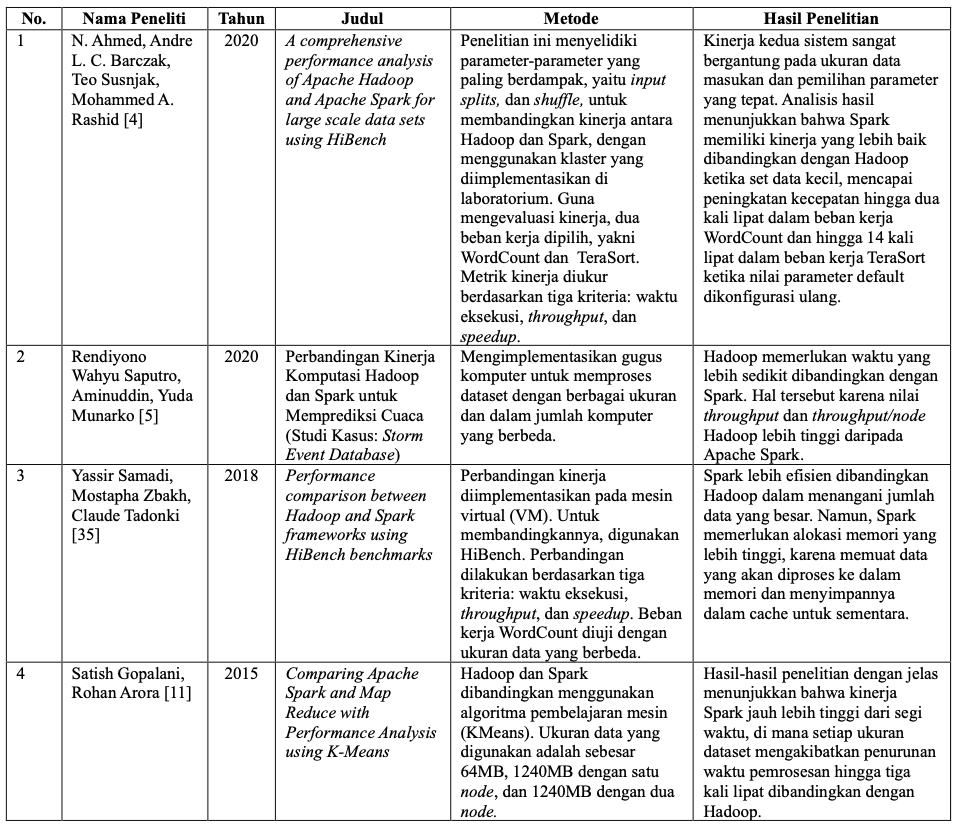
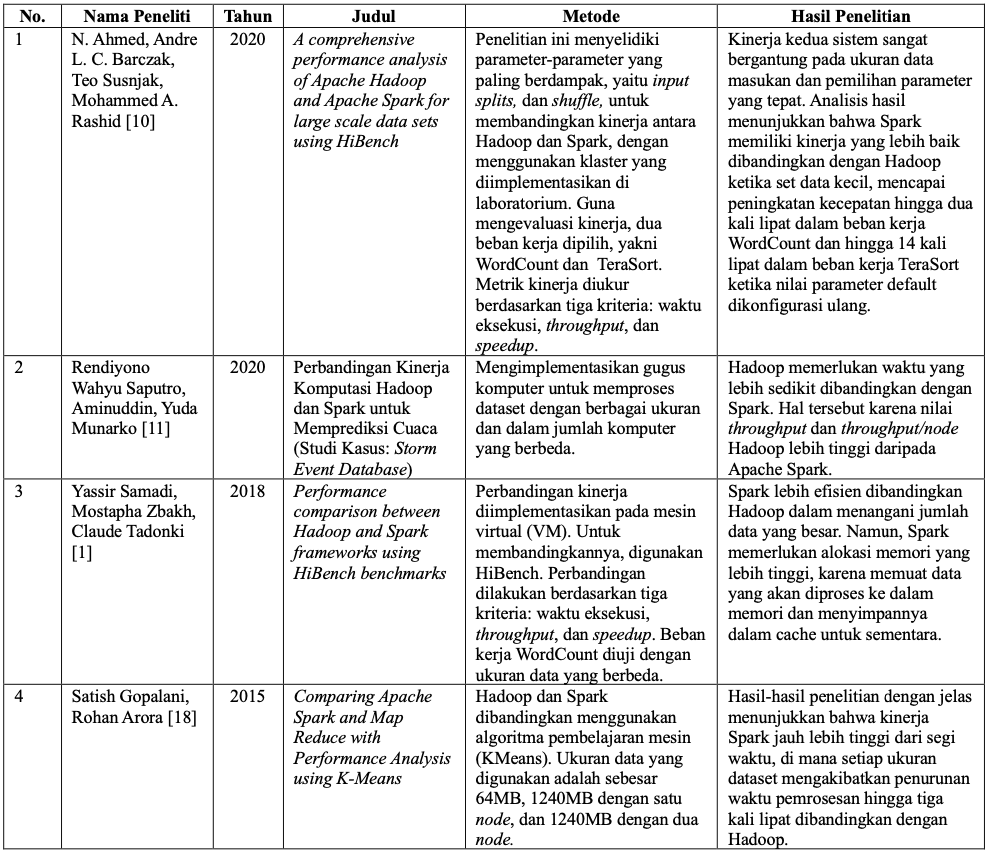
fix(bab1): change intro for sempro

Changed region(s): [[0.0, 0.0, 1.0, 1.0]]

diff --git a/chapters/ch01/index.tex b/chapters/ch01/index.tex
@@ -4,21 +4,29 @@
 
 \section{Latar Belakang}
 
-Pengolahan dan analisis data telah menjadi bagian penting dalam berbagai aspek kehidupan modern \cite{vermaBigDataManagement2016}.  Organisasi, perusahaan, dan lembaga pemerintah mengandalkan data untuk pengambilan keputusan, inovasi produk, pengembangan layanan pelanggan, dan banyak aspek lainnya. Seiring dengan meningkatnya volume data yang dihasilkan setiap hari, tantangan utama yang dihadapi adalah bagaimana mengelola dan menganalisis data ini dengan efisien dan cepat \cite{ahmadvandGapproxUsingGallup2019}. Beberapa solusi telah tersedia untuk mengatasi masalah ini. Salah satu solusi yang paling efisien adalah komputasi terdistribusi. 
+% TODO: (P1) Bahas mengenai Kemampuan mengolah dan menganalisis data dalam skala besar. Jabar-jabarkan aja.
+% TAMBAHKAN DATAAA, tambahkan referensi
+Perusahaan dan organisasi menghasilkan dan menyimpan data dalam skala besar setiap hari dengan tingkat pertumbuhannya yang dinamis \cite{samadiPerformanceComparisonHadoop2018}. Pertumbuhan jumlah data diperkirakan akan meningkat hingga 5x lipat pada tahun 2025 dengan \textit{Global Datasphere} diproyeksikan tumbuh dari 33 \textit{Zettabytes} (ZB) pada tahun 2018 menjadi 175 ZB \cite{reinselDigitizationWorldEdge2018} pada tahun 2025. Jumlah data tersebut membutuhkan pengolahan dengan kecepatan tinggi sehingga dapat dimanfaatkan untuk keperluan bisnis dan pengambilan keputusan \cite{adrianExpertReviewBig2018}. Analisis data transaksi nasabah pada perbankan dapat digunakan untuk mendeteksi \textit{fraud} dan meningkatkan keamanan \cite{syahputraPendeteksianFraudPeran2020}. Data pasien pada bidang kesehatan dapat memantau wabah penyakit dan menemukan pola pengobatan yang optimal \cite{sulaimanLITERATUREREVIEWPENERAPAN2023}. Sementara itu, data interaksi pengguna pada \textit{e-commerce} diolah untuk memberikan rekomendasi produk personal dan merancang strategi peningkatan penjualan \cite{fernandoUtilizationBigData2020}. Semakin besar data yang bisa ditangani, semakin banyak peluang analisis dan \textit{value} yang bisa dihasilkan. Namun, semakin besar volume data yang harus diolah, semakin kompleks pula tantangan yang dihadapi dalam mengelolanya secara efisien dan efektif \cite{KOMPARASIKECEPATANHADOOP}.
+
+% TODO: (P2) Volume data terus meningkat menjadi tantangan utama. Kasih data. Ksih penyebabnya. Kasih dampaknya.
+
+Tantangan utama dalam mengelola volume data yang besar adalah memastikan ketersediaan sumber daya komputasi yang memadai \cite{KOMPARASIKECEPATANHADOOP}. Pendekatan konvensional pemrosesan data besar seperti memperbanyak jumlah \textit{storage} secara vertikal, dan penggunaan sistem basis data NoSQL dapat memungkinkan pengolahan data yang skalabel dan fleksibel. Namun, ketika skala dan kompleksitas data semakin meningkat, komputasi terdistribusi menjadi pilihan yang lebih tepat karena memiliki sifat \textit{fault-tolerant}\cite{saadoonFaultToleranceBig2022}. 
 
 % TODO: Pentingnya evaluasi apa? Belum disebutkan!
 
-Komputasi terdistribusi adalah cara untuk mencapai paralelisme dengan menggabungkan beberapa mesin independen yang berbeda \cite{bhattacharyaEvaluatingDistributedComputing2021}. Dalam komputasi terdistribusi, data besar dibagi ke dalam sejumlah \textit{node} atau server yang bekerja bersama-sama untuk mengolahnya \cite{ahmedComprehensivePerformanceAnalysis2020}. Dua teknologi yang umum digunakan dalam komputasi terdistribusi ini adalah Apache Hadoop dan Apache Spark \cite{saputroPerbandinganKinerjaKomputasi2020}. Hadoop dan Spark adalah dua platform komputasi \textit{big data} yang paling populer dan banyak digunakan di seluruh dunia. \textit{Platform} ini menawarkan berbagai kemampuan untuk mengelola, menyimpan, dan menganalisis data dalam skala besar. 
+Komputasi terdistribusi adalah cara untuk mencapai paralelisme dengan menggabungkan beberapa mesin independen yang berbeda \cite{bhattacharyaEvaluatingDistributedComputing2021}. Dalam komputasi terdistribusi, data besar dibagi ke dalam sejumlah \textit{node} atau server yang bekerja bersama-sama untuk mengolahnya \cite{ahmedComprehensivePerformanceAnalysis2020}. Dua teknologi yang umum digunakan dalam komputasi terdistribusi ini adalah Apache Hadoop dan Apache Spark \cite{saputroPerbandinganKinerjaKomputasi2020}. Hadoop dan Spark adalah dua platform komputasi \textit{big data} yang paling populer dan banyak digunakan di seluruh dunia. Teknologi ini menawarkan berbagai kemampuan untuk mengelola, menyimpan, dan menganalisis data dalam skala besar. 
 
+% TODO: Lebih baik 1-1 antara mapreduce dan spark saja. Bridging ke pentingnya evaluasi.
 MapReduce adalah alat yang digunakan untuk komputasi terdistribusi, dirancang khusus untuk menulis, membaca, dan memproses jumlah data yang besar \cite{deanMapReduceSimplifiedData2004}. Pemrosesan data dalam MapReduce ini terdiri dari tiga tahap: fase \textit{Map}, fase \textit{Shuffle}, dan fase \textit{Reduce}. Dalam teknik ini, berkas-berkas besar dibagi menjadi beberapa blok kecil dengan ukuran yang sama dan didistribusikan ke seluruh klaster untuk penyimpanan. MapReduce dan sistem file terdistribusi (HDFS) adalah bagian inti dari sistem Hadoop, sehingga komputasi dan penyimpanan bekerja bersama-sama di seluruh \textit{node} yang membentuk klaster komputer \cite{samadiComparativeStudyHadoop2016}. Hadoop MapReduce memerlukan akses ke penyimpanan untuk membaca dan menulis data, sehingga dapat memperlambat proses komputasi, sehingga hadirlah Spark.
 
 Spark, di sisi lain, menawarkan teknologi \textit{Resilient Distributed Datasets} (RDDs) untuk mendukung proses \textit{Map} dan \textit{Reducing} secara lebih efektif dan cepat \cite{ahmadvandGapproxUsingGallup2019}. Spark bukan hanya alternatif Hadoop, tetapi juga menyediakan berbagai fungsi, misalnya mendukung \textit{MLib}, \textit{GraphX}, dan \textit{Spark streaming} untuk analisis data besar \cite{zahariaSparkClusterComputing2010}. Spark menggunakan memori untuk menyimpan data sehingga dapat mengurangi siklus baca dan tulis. Perbedaan mendasar ini mengakibatkan menarik untuk melihat perbandingan performa antara keduanya. Salah satu cara untuk membandingkan performa keduanya adalah menggunakan tolok ukur Hibench.
 
+% TODO: perbaiki, terlalu umum. Umum -> umum tidak bagus.
 Tolok ukur HiBench adalah salah satu tolok ukur kinerja yang paling sering digunakan. HiBench mencakup sejumlah tugas \textit{benchmarking} yang mencerminkan berbagai jenis pemrosesan data, seperti pengolahan batch, aliran data, \textit{query}, atau pun \textit{machine learning} \cite{huangHiBenchBenchmarkSuitea}. Oleh karena itu, HiBench adalah alat yang cocok untuk mengukur dan membandingkan kinerja antara Hadoop dan Spark dalam berbagai skenario penggunaan.
 
 Penelitian tentang evaluasi performa Hadoop dan Spark menggunakan HiBench telah beberapa kali dilakukan. Shi et al. \cite{shiClashTitansMapReduce2015} melakukan penelitian dengan dua alat yang dirancang untuk mengukur kinerja MapReduce dan Spark dalam berbagai skenario beban kerja. Penelitian tersebut mengevaluasi kinerja dalam pekerjaan \textit{batch} dan iteratif, dengan fokus pada komponen-komponen penting seperti \textit{shuffle}, dan \textit{caching}. Hasil penelitian menunjukkan bahwa Spark lebih cepat daripada Hadoop dalam beberapa kasus, terutama ketika menangani tugas-tugas pemrosesan data yang lebih kecil. Namun, ketika ukuran data meningkat, Hadoop terbukti lebih efisien. Selanjutnya, perbandingan kinerja antara Hadoop dan Spark juga disorot oleh penelitian Samadi et al. \cite{samadiComparativeStudyHadoop2016}, yang menggunakan delapan tolok ukur dari HiBench. Penelitian ini menunjukkan bahwa Spark cenderung lebih efisien ketika menangani data dalam jumlah kecil atau saat memproses tugas dalam memori, sementara Hadoop lebih sukses ketika beban kerja melibatkan operasi I/O penyimpanan yang intensif. Selain itu, penelitian oleh Satish dan Rohan \cite{gopalaniComparingApacheSpark2015} menyoroti perbandingan kinerja antara Hadoop dan Spark khususnya dalam konteks algoritma \textit{K-means}. Penelitian itu menemukan bahwa Spark dapat mencapai kecepatan hingga tiga kali lipat dibandingkan Hadoop, dengan catatan bahwa performa Spark sangat bergantung pada ukuran memori yang memadai.
 
-Berdasarkan penelitian sebelumnya, penelitian ini bertujuan untuk menyelidiki perbandingan kinerja antara Hadoop dan Spark dengan menggunakan tolok ukur HiBench dengan studi kasus tertentu. Dengan pemahaman mendalam mengenai kekuatan dan kelemahan masing-masing \textit{platform} dalam berbagai konteks pemrosesan data, organisasi atau peneliti dapat membuat keputusan yang lebih informasional saat memilih \textit{platform} yang paling sesuai dengan kebutuhan. Selain itu, penelitian ini akan dilakukan dengan memanfaatkan Infrastruktur sebagai Layanan (IaaS) yang disediakan oleh \textit{DigitalOcean}, memungkinkan penggunaan sumber daya komputasi dalam skala yang fleksibel dan efisien. Dengan demikian, penelitian ini akan memberikan kontribusi berharga dalam membantu pemangku kepentingan dalam mengoptimalkan pemrosesan data dalam lingkungan komputasi terdistribusi.
+Berdasarkan penelitian sebelumnya, penelitian ini bertujuan untuk menyelidiki perbandingan kinerja antara Hadoop dan Spark dengan menggunakan tolok ukur HiBench dengan studi kasus tertentu. Pemahaman mendalam mengenai kekuatan dan kelemahan masing-masing teknologi dalam berbagai konteks pemrosesan data akan membuat organisasi atau peneliti dapat dengan mudah membuat keputusan yang lebih informasional. Selain itu, penelitian ini akan dilakukan dengan memanfaatkan Infrastruktur sebagai Layanan (IaaS) yang disediakan oleh DigitalOcean, memungkinkan penggunaan sumber daya komputasi dalam skala yang fleksibel dan efisien. Dengan demikian, penelitian ini akan memberikan kontribusi berharga dalam membantu pemangku kepentingan dalam pemilihan teknologi pemrosesan data dalam lingkungan komputasi terdistribusi.
 
 \section{Rumusan Masalah}
 Adapun rumusan masalah dalam penelitian ini adalah sebagai berikut:

diff --git a/chapters/ch03/index.tex b/chapters/ch03/index.tex
@@ -102,7 +102,7 @@ Pemasangan dan konfigurasi perangkat lunak pada tahapan ini tidak membutuhkan ur
 
 \subsubsection{Instalasi dan Konfigurasi Hadoop}
 Hadoop adalah perangkat lunak \textit{open source} yang efektif dalam menyimpan dan memproses data dalam skala besar. Daripada menggunakan satu komputer besar untuk menyimpan dan memproses data, Hadoop memungkinkan pengklasteran beberapa komputer untuk menganalisis set data besar secara paralel dengan lebih cepat. Ada beberapa perangkat lunak prasyarat yang perlu dipasang sebelum menggunakan Hadoop. Setelah perangkat lunak prasyarat berhasil dipasang, Hadoop juga dapat dipasang mengikuti panduan lengkap pada Lampiran \ref{appendix:C}. 
-Secara umum, alur yang harus dilakukan meliputi pengunduhan berkas Hadoop. Selanjutnya akan dilakukan pengubahan kepemilikan berkas ke \textit{user hdfsuser}. Karena Hadoop tidak mendukung IPv6, maka fitur ini perlu dimatikan juga. Alir pemasangan dan konfigurasi Hadoop lebih jelas sesuai dengan Gambar \ref{fig:hadoop-flow}.
+Secara umum, alur yang harus dilakukan meliputi pengunduhan berkas Hadoop. Selanjutnya akan dilakukan pengubahan kepemilikan berkas ke \textit{user hdfsuser}. Karena Hadoop tidak mendukung IPv6, maka fitur ini perlu dimatikan juga. Alur pemasangan dan konfigurasi Hadoop lebih jelas sesuai dengan Gambar \ref{fig:hadoop-flow}.
 
 \begin{figure}[h!]
     \centering
@@ -112,7 +112,7 @@ Secara umum, alur yang harus dilakukan meliputi pengunduhan berkas Hadoop. Selan
 \end{figure}
 
 \subsubsection{Instalasi dan Konfigurasi Spark}
-Apache Spark adalah sebuah kerangka kerja pengolahan data terdistribusi yang sangat cepat dan efisien. Spark dan Hadoop memiliki hubungan yang erat. Spark dapat berjalan di atas \textit{Hadoop Distributed File System} (HDFS) dan dapat menggunakan Hadoop YARN sebagai manajer sumber daya. Oleh karena itu, instalasi Spark membutuhkan Hadoop sudah terpasang lebih dahulu. Alir pemasangan dan konfigurasi spark terlihat seperti pada Gambar \ref{fig:spark-flow}. Apabila Hadoop sudah berhasil terpasang, langkah selanjutnya adalah memasang Spark seperti pada Lampiran \ref{appendix:D}.
+Apache Spark adalah sebuah kerangka kerja pengolahan data terdistribusi yang sangat cepat dan efisien. Spark dan Hadoop memiliki hubungan yang erat. Spark dapat berjalan di atas \textit{Hadoop Distributed File System} (HDFS) dan dapat menggunakan Hadoop YARN sebagai manajer sumber daya. Oleh karena itu, instalasi Spark membutuhkan Hadoop sudah terpasang lebih dahulu. Alur pemasangan dan konfigurasi spark terlihat seperti pada Gambar \ref{fig:spark-flow}. Apabila Hadoop sudah berhasil terpasang, langkah selanjutnya adalah memasang Spark seperti pada Lampiran \ref{appendix:D}.
 
 \begin{figure}[h]
     \centering
@@ -122,7 +122,7 @@ Apache Spark adalah sebuah kerangka kerja pengolahan data terdistribusi yang san
 \end{figure}
 
 \subsubsection{Instalasi dan Konfigurasi HiBench}
-Sebelum melakukan eksperimen, diperlukan suatu perangkat lunak pengukuran kinerja sistem \textit{Big Data}, yaitu HiBench. HiBench tidak dapat digunakan secara langsung ketika sudah berhasil diunduh, melainkan harus dilakukan pembangunan beberapa modul yang dibutuhkan dengan Maven dan konfigurasi beberapa parameter. Secara umum, alur instalasi dan konfigurasi HiBench sesuai dengan \ref{fig:hibench-flow}. Berkas HiBench diunduh dari repositori, dilanjutkan dengan pembangunan beberapa modul yang nantinya dibutuhkan. Selanjutnya, dilakukan konfigurasi beberapa berkas seperti \textit{hibench.conf, hadoop.conf, dan spark.conf}. Jika telah dilakukan konfigurasi, dapat dilanjutkan dengan menjalankan beban kerja atau eksperimen. Lebih lanjut, pemasangan dan konfigurasi HiBench dijelaskan pada Lampiran \ref{appendix:E}.
+Sebelum melakukan eksperimen, diperlukan suatu perangkat lunak pengukuran kinerja sistem \textit{Big Data}, yaitu HiBench. HiBench tidak dapat digunakan secara langsung ketika sudah berhasil diunduh, melainkan harus dilakukan pembangunan beberapa modul yang dibutuhkan dengan Maven dan konfigurasi beberapa parameter. Secara umum, alur instalasi dan konfigurasi HiBench sesuai dengan Gambar \ref{fig:hibench-flow}. Berkas HiBench diunduh dari repositori, dilanjutkan dengan pembangunan beberapa modul yang nantinya dibutuhkan. Selanjutnya, dilakukan konfigurasi beberapa berkas seperti \textit{hibench.conf, hadoop.conf, dan spark.conf}. Jika telah dilakukan konfigurasi, dapat dilanjutkan dengan menjalankan beban kerja atau eksperimen. Lebih lanjut, pemasangan dan konfigurasi HiBench dijelaskan pada Lampiran \ref{appendix:E}.
 
 \begin{figure}[h]
     \centering

diff --git a/chapters/ch02/index.tex b/chapters/ch02/index.tex
@@ -47,7 +47,7 @@ Selanjutnya adalah tahap pengocokan (\textit{shuffling}) di mana pasangan kunci-
 Pada tahap terakhir yaitu pengurangan (\textit{reducing}), dilakukan agregasi terhadap pasangan kunci-nilai dengan kunci yang sama untuk menghasilkan keluaran akhir. Seperti pada contoh kasus \textit{wordcount}, pasangan \textit{Bear:1} dan \textit{Bear:1} akan dijumlahkan menjadi \textit{Bear:2} oleh proses pengurangan.
 
 \subsection{Apache Hadoop}
-Apache Hadoop adalah perangkat lunak sumber terbuka yang ditulis dengan bahasa pemrograman Java untuk pemrosesan dan penyimpanan data menggunakan komputasi terdistribusi (\cite{ApacheHadoop}). Hadoop dapat diinstalasi pada satu \textit{node} komputer, atau ratusan \textit{node} komputer yang digabungkan dalam sebuah klaster (\cite{maneasEvolutionHadoopDistributed2018}). Berkaitan dengan pemrosesan data, Hadoop mengimplementasikan model MapReduce untuk pemrosesan data secara paralel dan cepat. Selain itu, Hadoop menyediakan sistem penyimpanan data terdistribusi yang dikenal sebagai Hadoop Distributed File System (HDFS) untuk akses data, pemrosesan, dan komputasi \cite{dabasAnalysisCommentsYoutube2019}. Arsitektur Hadoop secara umum dapat dilihat pada Gambar \ref{fig:hadoop-str}.
+Apache Hadoop adalah perangkat lunak sumber terbuka yang ditulis dengan bahasa pemrograman Java untuk pemrosesan dan penyimpanan data menggunakan komputasi terdistribusi \cite{ApacheHadoop}. Hadoop dapat diinstalasi pada satu \textit{node} komputer, atau ratusan \textit{node} komputer yang digabungkan dalam sebuah klaster \cite{maneasEvolutionHadoopDistributed2018}. Berkaitan dengan pemrosesan data, Hadoop mengimplementasikan model MapReduce untuk pemrosesan data secara paralel dan cepat. Selain itu, Hadoop menyediakan sistem penyimpanan data terdistribusi yang dikenal sebagai Hadoop Distributed File System (HDFS) untuk akses data, pemrosesan, dan komputasi \cite{dabasAnalysisCommentsYoutube2019}. Arsitektur Hadoop secara umum dapat dilihat pada Gambar \ref{fig:hadoop-str}.
 
 \begin{figure}[h!]
     \centering
